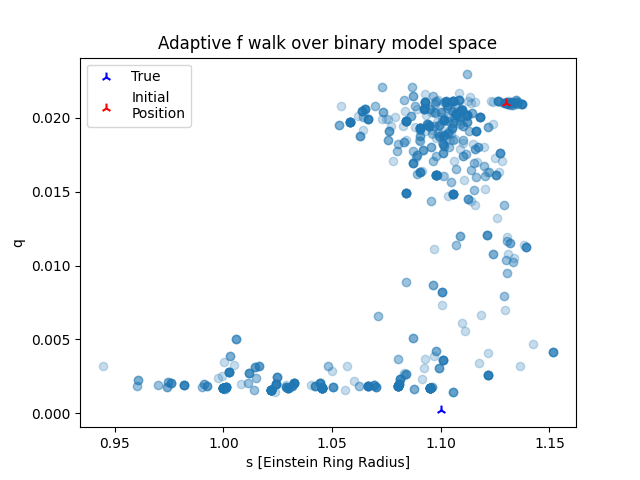
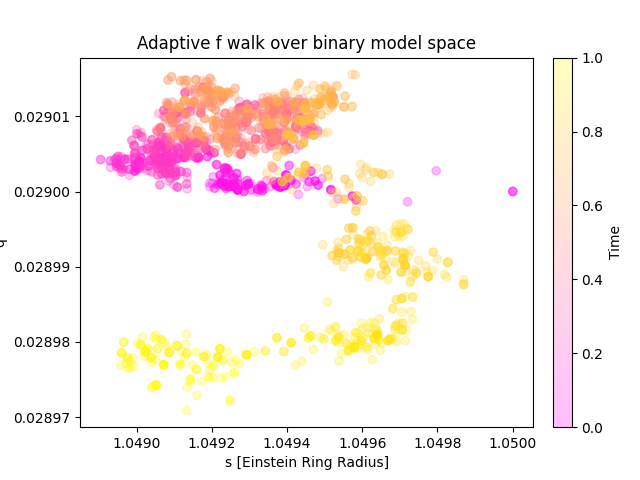
plots

diff --git a/ReversibleJump.py b/ReversibleJump.py
@@ -15,9 +15,9 @@ from scipy.stats import truncnorm, loguniform, uniform
 
 # Synthetic Event Parameters
 #Model = mm.Model({'t_0': 36, 'u_0': 0.133, 't_E': 61.5, 'rho': 0.0096, 'q': 0.0039, 's': 1.120, 'alpha': 223.8}) # strong binary
-Model = mm.Model({'t_0': 36, 'u_0': 0.133, 't_E': 61.5, 'rho': 0.0056, 'q': 0.0009, 's': 1.3, 'alpha': 210.8}) # weak binary1
+#Model = mm.Model({'t_0': 36, 'u_0': 0.133, 't_E': 61.5, 'rho': 0.0056, 'q': 0.0009, 's': 1.3, 'alpha': 210.8}) # weak binary1
 #Model = mm.Model({'t_0': 36, 'u_0': 0.133, 't_E': 61.5, 'rho': 0.0056, 'q': 0.0007, 's': 1.3, 'alpha': 210.8}) # weak binary2
-#Model = mm.Model({'t_0': 36, 'u_0': 0.133, 't_E': 61.5, 'rho': 0.0096, 'q': 0.00002, 's': 4.9, 'alpha': 223.8}) # indistiguishable from single
+Model = mm.Model({'t_0': 36, 'u_0': 0.133, 't_E': 61.5, 'rho': 0.0096, 'q': 0.00002, 's': 4.9, 'alpha': 223.8}) # indistiguishable from single
 Model.set_magnification_methods([0., 'VBBL', 72.])
 
 #Model = mm.Model({'t_0': 36, 'u_0': 0.133, 't_E': 61.5}) #  Single
@@ -28,7 +28,7 @@ plt.savefig('temp.jpg')
 plt.clf()
 
 # Generate "Synthetic" Lightcurve
-t = Model.set_times(n_epochs = 150)
+t = Model.set_times(n_epochs = 350)
 error = Model.magnification(t)/50 + 0.1
 Data = mm.MulensData(data_list=[t, Model.magnification(t), error], phot_fmt='flux', chi2_fmt='flux')
 
@@ -59,12 +59,13 @@ priors = [t0_upi, u0_upi,  tE_upi, rho_upi,  q_upi, s_upi, alpha_upi]
 m_pi = [0.5, 0.5]
 
 # centreing points for inter-model jumps
-center_1 = np.array([36., 0.133, np.log(61.5)])
+center_1 = np.array([36., 0.133, (61.5)])
 #center_1 = np.array([36., 0.133, 61.5])
 #center_2 = np.array([36, 0.133, 61.5, 0.00096, 0.000002, 3.3, 223.8]) # nice results for adaption strong
-center_2 = np.array([36., 0.133, np.log(61.5), np.log(0.005), np.log(0.0007), np.log(1.25), 210.]) #weak1
-#center_2 = np.array([36., 0.133, np.log(61.5), np.log(0.0052), np.log(0.0006), np.log(1.29), 210.9]) #weak2
-#center_2 = np.array([36., 0.133, np.log(61.5), np.log(0.0096), np.log(0.00002), np.log(0.25), 223.8]) #single
+#center_2 = np.array([36., 0.133, (61.5), (0.00563), np.log(0.00091), (1.31), 210.8]) #weak1
+#center_2 = np.array([36., 0.133, (61.5), (0.005), np.log(0.0007), (1.25), 210.]) #weak1
+#center_2 = np.array([36., 0.133, (61.5), (0.0052), np.log(0.0006), (1.29), 210.9]) #weak2
+center_2 = np.array([36., 0.133, (61.5), (0.0096), np.log(0.00002), (4.25), 223.8]) #single
 
 # print(np.exp(f.logLikelihood(1, Data, center_1)))
 # print(np.exp(f.logLikelihood(2, Data, center_2)))
@@ -87,11 +88,11 @@ covariance_p = [covariance_1p, covariance_2p]
 
 
 # loop specific values
-iterations = 2000
-
-theta = [36., 0.133, np.log(61.5)]#, 0.0014, 0.0009, 1.26, 224.]
+iterations = 500
+print(states_1[:, -1])
+theta = states_1[:, -1]#[36., 0.133, 61.5]#, 0.0014, 0.0009, 1.26, 224.]
 m = 1
-pi = np.exp(f.logLikelihood(m, Data, f.unscale(m, theta), priors))
+pi = (f.logLikelihood(m, Data, f.unscale(m, theta), priors))
 #print(pi)
 
 ms = np.zeros(iterations, dtype=int)
@@ -114,16 +115,29 @@ means = [np.zeros((3, iters+burns+iterations)), np.zeros((7, iters+burns+iterati
 means[0][:, 0:burns+iters] = means_1
 means[1][:, 0:burns+iters] = means_2
 
+print('Running RJMCMC')
+
+            
+
+
+
 for i in range(iterations): # loop through RJMCMC steps
+    
+    #diagnostics
+    #print(f'\rLikelihood: {np.exp(pi):.3f}', end='')
+    cf = i/(iterations-1);
+    print(f'Current: Likelihood {np.exp(pi):.4f}, M {m} | Progress: [{"#"*round(50*cf)+"-"*round(50*(1-cf))}] {100.*cf:.2f}%\r', end='')
 
     mProp = random.randint(1,2) # since all models are equally likelly, this has no presence in the acceptance step
     thetaProp = f.RJCenteredProposal(m, mProp, theta, covariance_p[mProp-1], centers) #print('prop: '+str(thetaProp))
-    piProp = np.exp(f.logLikelihood(mProp, Data, f.unscale(mProp, thetaProp), priors))
+
     priorRatio = np.exp(f.PriorRatio(m, mProp, f.unscale(m, theta), f.unscale(mProp, thetaProp), priors))
     
-    #if mProp == 1: print(piProp/pi, priorRatio, mProp)
+    piProp = (f.logLikelihood(mProp, Data, f.unscale(mProp, thetaProp), priors))
+
+    #print(piProp, pi, priorRatio, mProp)
     
-    if random.random() <= piProp/pi * priorRatio * m_pi[mProp-1]/m_pi[m-1] * J[mProp-1]: # metropolis acceptance
+    if random.random() <= np.exp(piProp-pi) * priorRatio * m_pi[mProp-1]/m_pi[m-1] * J[mProp-1]: # metropolis acceptance
         theta = thetaProp
         m = mProp
         score += 1
@@ -144,21 +158,26 @@ for i in range(iterations): # loop through RJMCMC steps
     t[m-1] += 1
 
 # performance diagnostics:
-print("acc: "+str(score/iterations))
-print("1: "+str(1-np.sum(ms-1)/iterations))
-print("2: "+str(np.sum(ms-1)/iterations))
+print("\nAccepted Move Fraction: "+str(score/iterations))
+print("P(Singular): "+str(1-np.sum(ms-1)/iterations))
+print("P(Binary): "+str(np.sum(ms-1)/iterations))
 #print(states)
 
 
 
 ## PLOT RESULTS ##
 
-markerSize=50
+markerSize=75
 
-states_2 = [] 
+states_2 = []
+h_states_2=[]
 for i in range(iterations): # record all binary model states in the chain
-    if ms[i] == 2: states_2.append(f.unscale(2, states[i]))
+    if ms[i] == 2: 
+        states_2.append(f.unscale(2, states[i]))
+        if ms[i-1] == 1: h_states_2.append(f.unscale(2, states[i]))
+
 states_2=np.array(states_2)
+h_states_2=np.array(h_states_2)
 
 
 meanState_2 = np.median((states_2), axis=0)
@@ -172,22 +191,28 @@ plt.savefig('Plots/BinaryFit.png')
 plt.clf()
 
 
-plt.scatter(states_2[:,5], ((states_2[:,4])), alpha=0.25)
+plt.scatter(states_2[:,5], (states_2[:,4]), c=np.linspace(0.0, 1.0, len(states_2)), cmap='spring', alpha=0.25, marker="o")
+cbar = plt.colorbar(fraction = 0.046, pad = 0.04) # empirical nice auto sizing
+cbar.set_label('Time', rotation = 90)
+plt.scatter(h_states_2[:,5], h_states_2[:,4], c='black', alpha=0.1, marker=".", label='Jump from M1', s=1)
 plt.xlabel('s [Einstein Ring Radius]')
 plt.ylabel('q [Unitless]')
 plt.title('RJ binary model walk through Mass Fraction / Separation space\nwith centreing function')
-plt.scatter((states_2[0,5]), (states_2[0,4]), c=[(0,1,0)], marker='2', label='Initial\nPosition', s=markerSize)
-plt.scatter(np.exp(center_2[5]), np.exp(center_2[4]), c=[(1,0,0)], marker='2', label='Centreing\npoint', s=markerSize)
-plt.scatter(1.3, 0.0009, c=[(0,0,1)], marker='2', label='True', s=markerSize)
+plt.scatter((center_2[5]), np.exp(center_2[4]), marker=r'$\odot$', label='Centre', s=markerSize, c='black', alpha=1)
+#plt.scatter(1.3, 0.0009, marker='*', label='True', s=markerSize, c='black', alpha=1)#r'$\circledast$'
 plt.legend()
 plt.savefig('Plots/RJ-binary-Walk.png')
 plt.clf()
 
 
 states_1 = []
+h_states_1 = []
 for i in range(iterations): # record all single model states in the chain
-    if ms[i] == 1: states_1.append(f.unscale(1, states[i]))
+    if ms[i] == 1: 
+        states_1.append(f.unscale(1, states[i]))
+        if ms[i-1] == 2: h_states_1.append(f.unscale(1, states[i]))
 states_1=np.array(states_1)
+h_states_1=np.array(h_states_1)
 
 
 meanState_1 = np.median(states_1, axis=0)
@@ -201,13 +226,17 @@ plt.clf()
 
 
 
-plt.scatter((states_1[:,2]), (states_1[:,1]), alpha=0.25)
+plt.scatter((states_1[:,2]), (states_1[:,1]), c=np.linspace(0.0, 1.0, len(states_1)), cmap='spring', alpha=0.25, marker="o")
+cbar = plt.colorbar(fraction = 0.046, pad = 0.04) # empirical nice auto sizing
+cbar.set_label('Time', rotation = 90)
+plt.scatter(h_states_1[:,2], h_states_1[:,1], c='black', alpha=0.1, marker=".", label='Jump from M2', s=1)
 plt.xlabel('u0 [?]')
 plt.ylabel('tE [?]')
 plt.title('RJ single model walk through minimum impact parameter / Einstein crossing time \nwith centreing function')
-plt.scatter(states_1[0,2], states_1[0,1], c=[(0,1,0)], marker='2', label='Initial\nPosition', s=markerSize)
-plt.scatter(np.exp(center_1[2]), center_1[1], c=[(1,0,0)], marker='2', label='Centreing\npoint', s=markerSize)
-plt.scatter(61.5, 0.133, c=[(0,0,1)], marker='2', label='True', s=markerSize)
+
+plt.scatter(center_1[2], center_1[1], marker=r'$\odot$', label='Centre', s=markerSize, c='black', alpha=1)
+#plt.scatter(61.5, 0.133, marker='*', label='True', s=markerSize, c='black', alpha=1)#r'$\circledast$'
+
 plt.legend()
 plt.savefig('Plots/RJ-single-Walk.png')
 plt.clf()

diff --git a/AdaptiveMCMC.py b/AdaptiveMCMC.py
@@ -54,7 +54,7 @@ Model.set_magnification_methods([0., 'VBBL', 72.])
 
 # Generate "Synthetic" Lightcurve
 t = Model.set_times(n_epochs = 100)
-error = Model.magnification(t)/5
+error = Model.magnification(t)/50 + 0.1
 Data = mm.MulensData(data_list=[t, Model.magnification(t), error], phot_fmt='flux', chi2_fmt='flux')
 
 # priors (Zhang et al)
@@ -68,9 +68,9 @@ rho_pi =  f.logUniDist(10**-4, 10**-2)
 priors = [t0_pi, u0_pi,  tE_pi, rho_pi,  q_pi, s_pi, alpha_pi]
 
 # initial points
-theta_1i = np.array([36., 0.133, np.log(61.5)])
+theta_1i = np.array([36., 0.133, (61.5)])
 #theta_1i = np.array([36., 0.133, 61.5])
-theta_2i = np.array([36, 0.133, np.log(61.5), np.log(0.0093), np.log(0.021), np.log(1.13), 223.8]) # nice results for adaption
+theta_2i = np.array([36, 0.133, (61.5), (0.00958), np.log(0.029), (1.05), 223.8]) # nice results for adaption
 #theta_2i = np.array([36., 0.133, 61.5, 0.0014, 0.00096, 1.2, 224.]) # nice results for model
 # print(np.exp(f.logLikelihood(1, Data, theta_1i)))
 # print(np.exp(f.logLikelihood(2, Data, theta_2i)))
@@ -79,21 +79,22 @@ theta_2i = np.array([36, 0.133, np.log(61.5), np.log(0.0093), np.log(0.021), np.
 covariance_1i=np.multiply(0.0001, [0.01, 0.01, 0.1])
 covariance_2i=np.multiply(0.0001, [0.01, 0.01, 0.1, 0.0001, 0.0001, 0.001, 0.001])
 
-burns=10
-iters=1000
+burns=5
+iters=2045
 
 #covariance_1p, states_1, c_1 = f.AdaptiveMCMC(1, Data, theta_1i, priors, covariance_1i, 200, 200)
-covariance_2p, states_2, c_2 = f.AdaptiveMCMC(2, Data, theta_2i, priors, covariance_2i, burns, iters)
+covariance_2p, states_2, means_2, c_2 = f.AdaptiveMCMC(2, Data, theta_2i, priors, covariance_2i, burns, iters)
 
 # Create and plot the accepatnce ratio over time
 acc = []
-size = 10
+size = 50
 bins = int((burns + iters) / size)
 
 for bin in range(bins): # record the ratio of acceptance for each bin
     acc.append(np.sum(c_2[size*bin:size*(bin+1)]) / size)
 
 plt.plot(np.linspace(1, bins, num=bins), acc)
+plt.ylim((0.0, 1.0))
 plt.xlabel('Iterations [bins]')
 plt.ylabel('Acceptance rate')
 plt.title('Adaptive MCMC acceptance timeline')
@@ -117,12 +118,16 @@ print(np.linalg.det(np.cov(states_2)), 'empirical')
 #print((np.cov(states_2))) # clearly, adaption is calculating wrong
 
 # plot the points visited during the walk
-plt.scatter(np.exp(states_2[5,:]), np.exp(states_2[4,:]), alpha=0.25)
+
+plt.scatter(states_2[5,:], np.exp(states_2[4,:]), c=np.linspace(0.0, 1.0, iters+burns), cmap='spring', alpha=0.25, marker="o")
+cbar = plt.colorbar(fraction = 0.046, pad = 0.04) # empirical nice auto sizing
+cbar.set_label('Time', rotation = 90)
 plt.xlabel('s [Einstein Ring Radius]')
 plt.ylabel('q')
 plt.title('Adaptive f walk over binary model space')
-plt.scatter(1.1, 0.0002, c=[(0,0,1)], marker='2', label='True', s=50)
-plt.scatter(np.exp(theta_2i[5]), np.exp(theta_2i[4]), c=[(1,0,0)], marker='2', label='Initial\nPosition', s=50)
-plt.legend()
+#plt.scatter(1.1, 0.02, c=[(0,0,1)], marker='2', label='True', s=50)
+#plt.scatter(np.exp(theta_2i[5]), np.exp(theta_2i[4]), c=[(1,0,0)], marker='2', label='Initial\nPosition', s=50)
+#plt.legend()
+plt.gca().ticklabel_format(useOffset=False)
 plt.savefig('Plots/Adaptive-Covariance-Sampleing-Walk.png')
 plt.clf()

diff --git a/Functions.py b/Functions.py
@@ -168,7 +168,7 @@ def AdaptiveMCMC(m, data, theta, priors, covariance, burns, iterations):
         t += 1
 
     # performance diagnostic
-    print("Adaptive Acc: " + str(np.sum(c) / (iterations + burns)) + ", Model: "+str(m))
+    print(f"Adaptive Acc: {(np.sum(c) / (iterations + burns)):.4f}, Model: {m}")
 
     return covariance, states, means, c
 
@@ -219,7 +219,7 @@ def RJCenteredProposal(m, mProp, theta, covariance, centers):
             #u = np.multiply(r, [0.001, 0.00059, 1.238, 223.7])+np.multiply((1-r), [0.00099, 0.0009, 1.2, 223.5])#multivariate_normal.rvs(mean=center[mProp-1][3:], cov=covProp[3:] * np.average(l)) #center[mProp-1][3:] * np.average(l)#SurrogatePosterior[mProp].rvs #THIS FUNCTION MIGHT NOT BE DIFFERENTIABLE, JACOBIAN TROUBLES?
             #u = np.append((center[mProp-1][3:6] + center[mProp-1][3:6] * np.average(l)), center[mProp-1][6])
 
-            u = centers[mProp-1][3:] + centers[mProp-1][3:] * np.average(l) # semi-randomly sample the non shared parameters
+            u = centers[mProp-1][3:] + centers[mProp-1][3:] * np.average(l)# * random.random() # semi-randomly sample the non shared parameters
             thetaProp=np.concatenate(((l * centers[mProp-1][0:3]+centers[mProp-1][0:3]), u))
 
             return thetaProp
@@ -254,14 +254,10 @@ def unscale(m, theta): ############make this into a class
     thetaT=copy.deepcopy(theta)
 
     if m == 1:
-        thetaT[2] = np.exp(theta[2])
         return thetaT
     
     if m == 2:
-        thetaT[2] = np.exp(theta[2])
-        thetaT[3] = np.exp(theta[3])
         thetaT[4] = np.exp(theta[4])
-        thetaT[5] = np.exp(theta[5])
         return thetaT
 
     return 0
